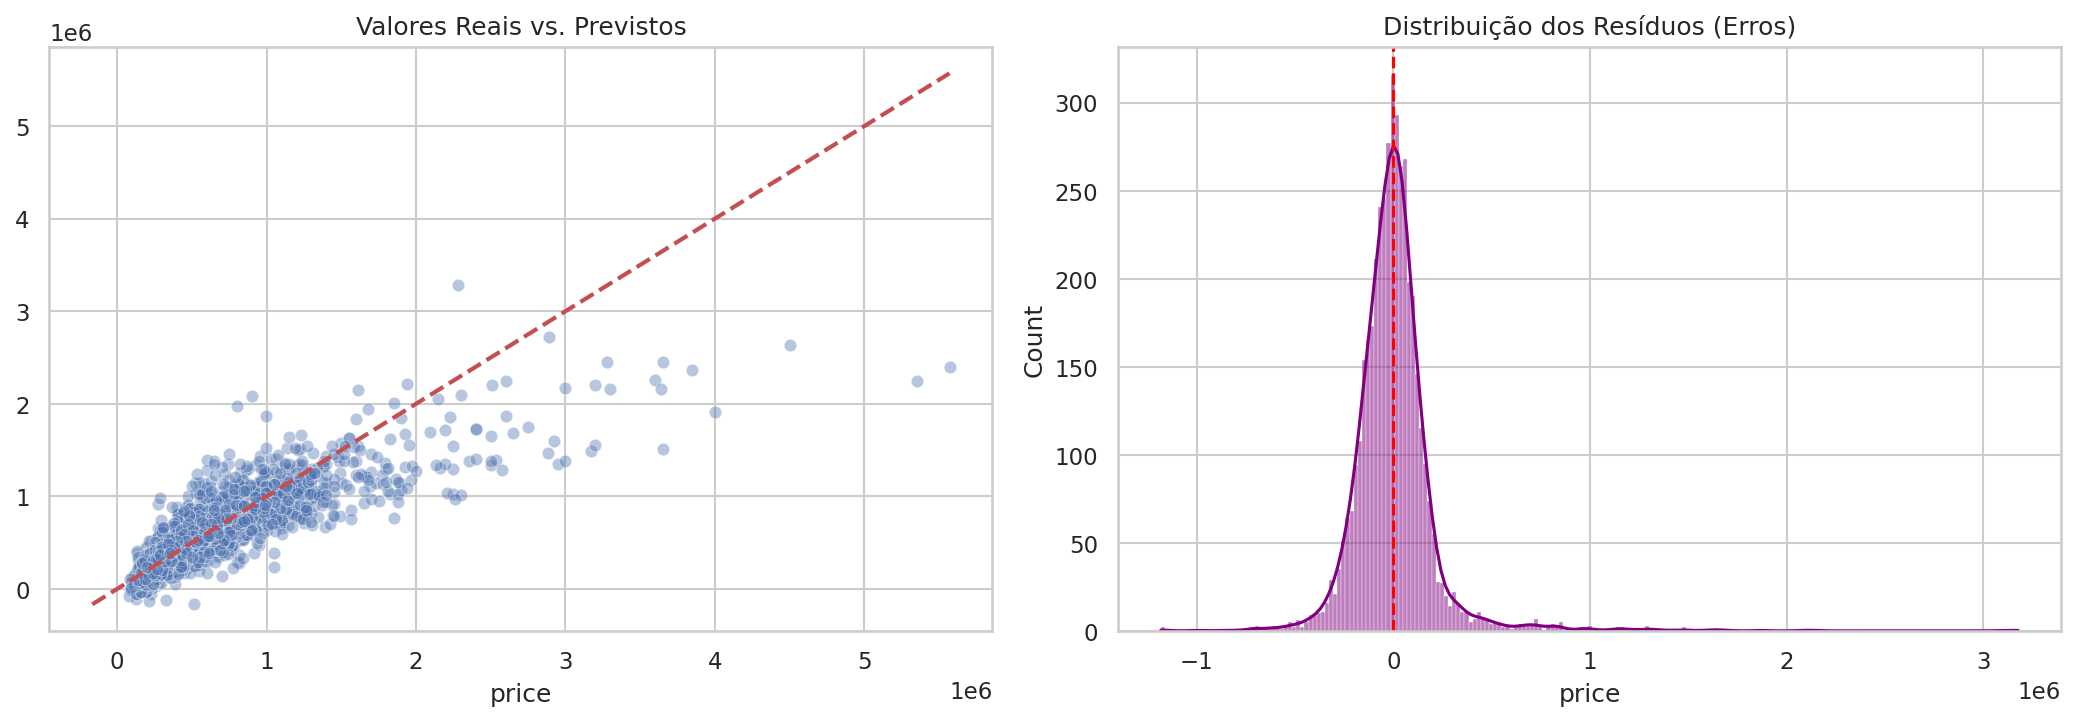
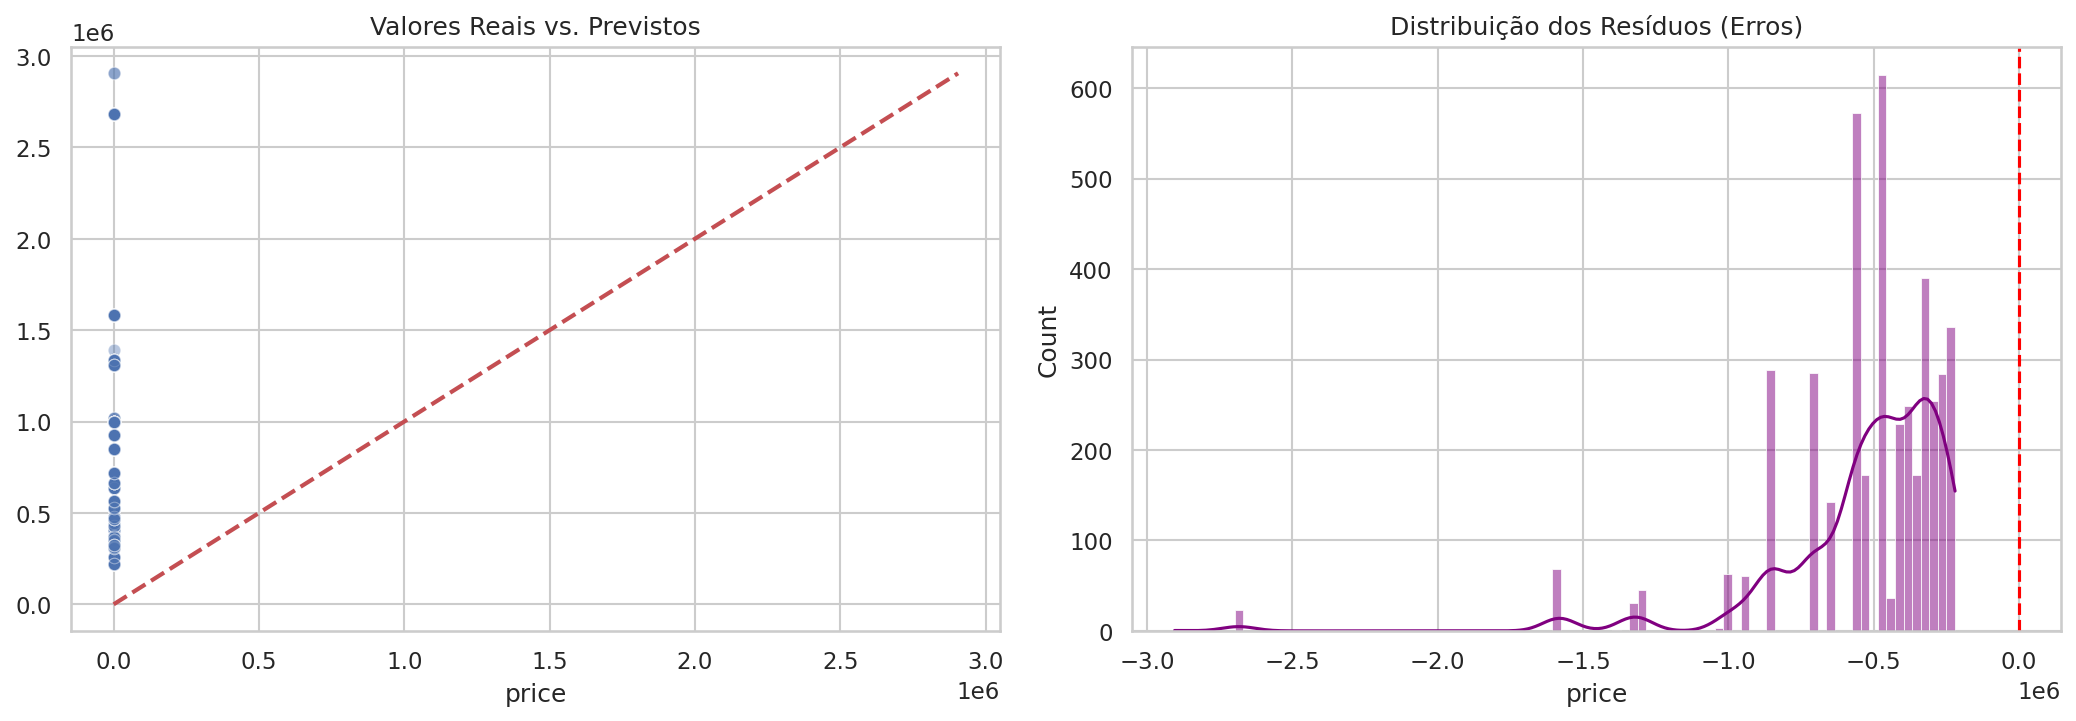
feat: transformação logarítmica na variável-alvo

diff --git a/src/features.py b/src/features.py
@@ -1,5 +1,5 @@
-
 import pandas as pd
+import numpy as np
 from sklearn.model_selection import train_test_split
 from sklearn.preprocessing import StandardScaler, OneHotEncoder
 from sklearn.compose import ColumnTransformer
@@ -7,110 +7,101 @@ from sklearn.compose import ColumnTransformer
 def criar_novas_features(df):
     """
     Cria novas features a partir das colunas existentes do DataFrame.
-
     Args:
         df (pd.DataFrame): DataFrame original.
-
     Returns:
         pd.DataFrame: DataFrame com as novas features.
     """
     df_features = df.copy()
-
+    
     # Assegura que 'date' esteja no formato datetime para cálculos
     if 'date' in df_features.columns:
         df_features['date'] = pd.to_datetime(df_features['date'])
-
+        
     # Idade do imóvel
     if 'date' in df_features.columns and 'yr_built' in df_features.columns:
         df_features['idade_imovel'] = df_features['date'].dt.year - df_features['yr_built']
-        # Trata idades negativas para casos onde o ano de construção é posterior ao da venda
-        df_features['idade_imovel'] = df_features['idade_imovel'].apply(lambda x: max(x, 0)) # Garante que a idade não seja negativa
-
+        
+    # Trata idades negativas para casos onde o ano de construção é posterior ao da venda
+    if 'idade_imovel' in df_features.columns:
+        df_features['idade_imovel'] = df_features['idade_imovel'].apply(lambda x: max(x, 0))
+        
     # Se foi reformado (binário)
     if 'yr_renovated' in df_features.columns:
         df_features['foi_reformado'] = (df_features['yr_renovated'] > 0).astype(int)
-
-    print("📐 Executando Feature Engineering (Fase 3)...")
+        
+    print(" Executando Feature Engineering (Fase 3)...")
     return df_features
+
 
 def preparar_dados_modelagem(df):
     """
     Prepara o DataFrame para a modelagem:
-    - Agrupa 'zipcode' em categorias mais amplas e aplica One-Hot Encoding.
-    - Remove variáveis desnecessárias ou que causam multicolinearidade.
-    - Divide os dados em conjuntos de treino e teste.
-    - Aplica escalonamento nas features numéricas.
-
+    Agrupa 'zipcode' em categorias mais amplas e aplica One-Hot Encoding.
+    Remove variáveis desnecessárias ou que causam multicolinearidade.
+    Divide os dados em conjuntos de treino e teste.
+    Aplica escalonamento nas features numéricas e transformação logarítmica no target.
     Args:
         df (pd.DataFrame): DataFrame com as features criadas.
-
     Returns:
         tuple: X_train, X_test, y_train, y_test (DataFrames e Series).
     """
-    print("⚙ Preparando dados para a modelagem ...")
+    print("Preparando dados para a modelagem ...")
     df_processed = df.copy()
-
+    
     # Remover variáveis não necessárias ou que causam multicolinearidade
-    # 'id' e 'date' são identificadores/temporais que não serão usados diretamente no modelo linear
-    # 'sqft_above' e 'sqft_living15' e 'sqft_basement' sao removidos devido à alta multicolinearidade com 'sqft_living'
-    # 'sqft_lot15' é removido devido que 'sqft_lot' representa a medida real do lote
     columns_to_drop_initial = ['id', 'date', 'sqft_above', 'sqft_living15', 'sqft_lot15', 'sqft_basement']
     for col in columns_to_drop_initial:
         if col in df_processed.columns:
             df_processed = df_processed.drop(columns=[col])
-
+            
     # Feature Engineering para zipcode: agrupamento
     if 'zipcode' in df_processed.columns:
         # Cria uma nova feature de grupo baseada nos 3 primeiros dígitos do zipcode
-        # Isso reduz a cardinalidade e agrupa regiões próximas
         df_processed['zipcode_group'] = df_processed['zipcode'].astype(str).str[:3]
         # Remove a coluna zipcode original
         df_processed = df_processed.drop(columns=['zipcode'])
     else:
         print("Aviso: 'zipcode' não encontrado no DataFrame para agrupamento. Ignorando...")
-
+        
     # Separar features (X) e target (y)
     X = df_processed.drop(columns=['price'], errors='ignore')
-    y = df_processed['price']
-
+    
+    # 🔥 AQUI ENTRA O LOGARITMO: Aplicando log1p na variável-alvo para estabilizar a assimetria
+    y = np.log1p(df_processed['price'])
+    
     # Identificar colunas numéricas e categóricas para pré-processamento
     numerical_cols = X.select_dtypes(include=['int64', 'float64']).columns
     categorical_cols = X.select_dtypes(include=['object', 'category']).columns
-
+    
     # Criação do pré-processador: escalonamento para numéricas e One-Hot Encoding para categóricas
-    # handle_unknown='ignore' para evitar erros se novas categorias aparecerem no teste
     preprocessor = ColumnTransformer(
         transformers=[
             ('num', StandardScaler(), numerical_cols),
             ('cat', OneHotEncoder(handle_unknown='ignore'), categorical_cols)
         ],
-        remainder='passthrough' # Mantém outras colunas (se houver, como booleanas que não foram incluídas em num/cat)
+        remainder='passthrough'
     )
-
-    # Divisão em treino e teste
+    
+    # Divisão em treino e teste (80/20)
     X_train_raw, X_test_raw, y_train, y_test = train_test_split(X, y, test_size=0.2, random_state=42)
-
-    # Aplica o pré-processamento (escalonamento + one-hot encoding)
+    
+   # Aplica o pré-processamento (escalonamento + one-hot encoding)
     X_train_processed = preprocessor.fit_transform(X_train_raw)
     X_test_processed = preprocessor.transform(X_test_raw)
-
-    # Recupera os nomes das colunas após One-Hot Encoding
+    
+    # Recupera os nomes das colunas diretamente do encoder treinado
     ohe_feature_names = []
-    # Itera sobre os transformadores do ColumnTransformer
-    for name, transformer, features in preprocessor.transformers_:
-        if name == 'cat' and transformer is not None: # Verifica se é o transformador 'cat' e se não é None (ou seja, foi aplicado)
-            if hasattr(transformer, 'get_feature_names_out'):
-                # Usar get_feature_names_out que é mais robusto
-                ohe_feature_names = list(transformer.get_feature_names_out(categorical_cols))
-            else:
-                # Fallback para get_feature_names em versões mais antigas
-                ohe_feature_names = list(transformer.get_feature_names(categorical_cols))
-            break # Sai do loop depois de encontrar o OneHotEncoder
-
-    # Concatena os nomes das colunas numéricas e as novas colunas one-hot encoded
+    if 'cat' in preprocessor.named_transformers_:
+        fitted_encoder = preprocessor.named_transformers_['cat']
+        if hasattr(fitted_encoder, 'get_feature_names_out'):
+            ohe_feature_names = list(fitted_encoder.get_feature_names_out(categorical_cols))
+        else:
+            ohe_feature_names = list(fitted_encoder.get_feature_names(categorical_cols))
+            
     all_feature_names = list(numerical_cols) + ohe_feature_names
 
     X_train = pd.DataFrame(X_train_processed, columns=all_feature_names, index=X_train_raw.index)
     X_test = pd.DataFrame(X_test_processed, columns=all_feature_names, index=X_test_raw.index)
-
+    
     return X_train, X_test, y_train, y_test